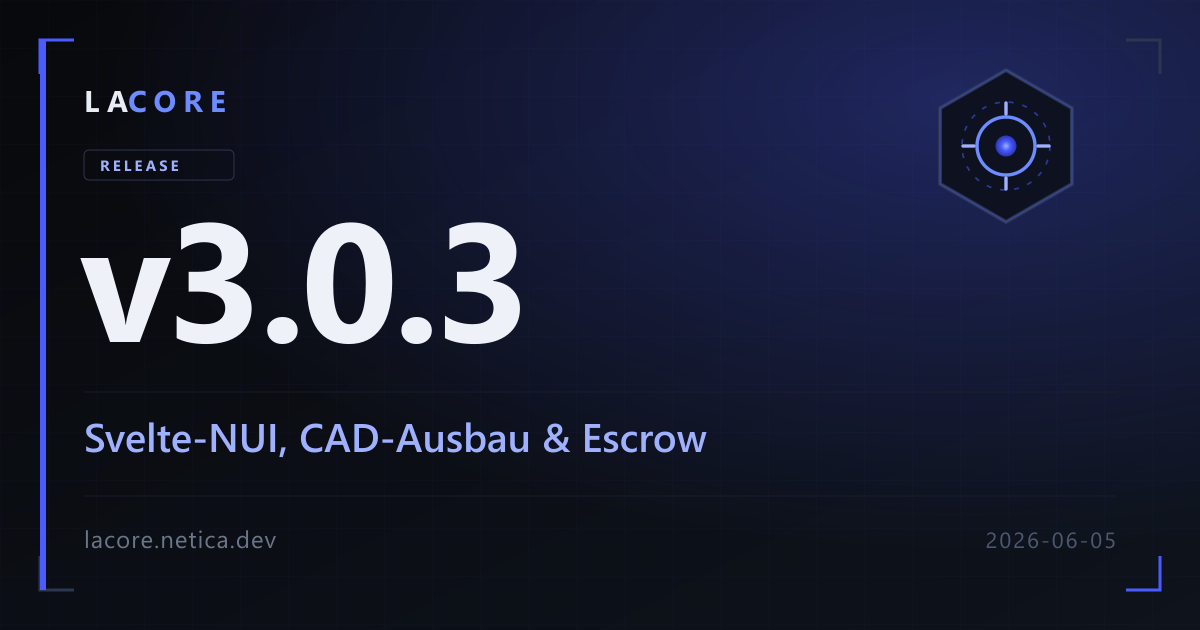
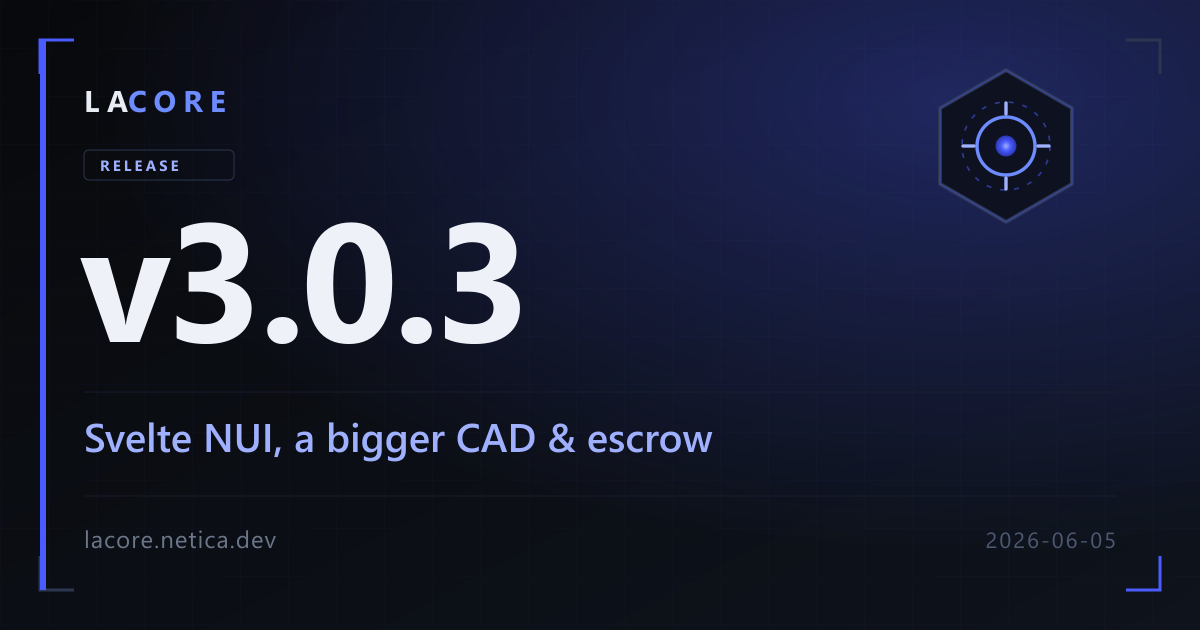
docs: English changelog for v3.4.9.6 and the two legacy German titles

Changed region(s): [[0.1542, 0.6635, 0.6167, 0.754]]

diff --git a/changelog.md b/changelog.md
@@ -3,32 +3,30 @@
 Alle nennenswerten Änderungen an diesem Projekt werden hier dokumentiert.
 Format angelehnt an [Keep a Changelog](https://keepachangelog.com/de/1.0.0/).
 
-## [3.4.9.6] – 2026-08-20 — Das 90er-CAD gibt es jetzt einzeln
+## [3.4.9.6] – 2026-08-20 — The 90s CAD ships on its own
 
 ### Added
 
-#### Der 9100-T als eigenes Produkt
+#### The 9100-T as a standalone product
 
-Das 9100-T Mobile Data Terminal — das 90er-Jahre-CRT-Terminal mit fotorealistischem Gehäuse,
-klickbaren Tasten und Tastatur-Klacken — lässt sich ab sofort als eigenständige Resource
-ausliefern: `node Products/build-90s.mjs` baut `Products/lacore-90s-cad` (plus ZIP) aus dem Core,
-ohne den Core anzufassen.
+The 9100-T Mobile Data Terminal — the 1990s CRT terminal with the photo-real chassis, the clickable
+keys and the keyboard clack — can now be shipped as a resource of its own. `node Products/build-90s.mjs`
+assembles `Products/lacore-90s-cad` (and a zip) out of the core without touching the core.
 
-Mitgeliefert wird genau ein Terminal und das CAD-Backend, das es bedient: laufende Einsätze,
-Unit-Status, Self-Assign, Dispositionen, Personen- und Fahrzeugabfragen, Charges, Citations,
-Haftbefehle und BOLOs. Alles andere bleibt draußen — das LAPD PremierOne MDT, LASD PCMS, das
-Agency MDT, das EMS/Fire CAD, das Pennsylvania CAD, die Dispatch-Konsole und sämtliche
-Nicht-CAD-Module.
+What ships is one terminal and the CAD backend behind it: active calls, unit status, self-assign,
+dispositions, person and vehicle lookups, charges, citations, warrants and BOLOs. Everything else
+stays out — the LAPD PremierOne MDT, the LASD PCMS, the Agency MDT, the EMS/Fire CAD, the
+Pennsylvania CAD, the dispatch console and every non-CAD module.
 
-Anders als beim MDT-Produkt wird dafür auch die **NUI neu gebaut**, nicht bloß kopiert: Der Core
-bündelt alle Terminals in eine einzige JavaScript-Datei, also entsteht für dieses Produkt ein
-eigener Einstiegspunkt, der nur den 9100-T mountet. Die anderen Terminals liegen damit auch nicht
-mehr im ausgelieferten Bundle (350 kB statt 1,2 MB).
+Unlike the MDT product, this one **rebuilds the NUI** instead of copying it. The core bundles every
+terminal into a single JavaScript file, so copying `nui/dist` would have shipped all of them; the
+build generates its own entry point that mounts the 9100-T alone. The other terminals are therefore
+not in the shipped bundle either — 350 kB instead of 1.2 MB.
 
-Damit im Produkt nichts anderes aufgehen kann, öffnet `/mdt` dort immer den 9100-T — unabhängig
-vom Department — und `/dispatch` meldet, dass es keine Konsole gibt. Beide Befehle werden in einer
-produkteigenen Datei neu registriert, statt den Core-Code umzuschreiben: `modules/mdt/mdt-nui-cl.lua`
-bleibt Byte für Byte identisch mit dem Core und übersteht damit jedes Core-Update.
+So that nothing else can open inside the product, `/mdt` there always opens the 9100-T regardless of
+department, and `/dispatch` reports that there is no console. Both commands are re-registered in a
+product-only file rather than edited out of the core: `modules/mdt/mdt-nui-cl.lua` stays byte for byte
+identical to the core, and survives every core update.
 
 ## [3.4.9.5] – 2026-08-19 — The phone and `/hangup` agree with each other
 
@@ -5580,7 +5578,7 @@ fließt in eine durchsuchbare DB, ein In-Game-Admin-Panel und optional Discord.
 
 ---
 
-## [3.0.5d] – 2026-06-11 — Vollständige Lokalisierung, Config-Ausbau & Härtung
+## [3.0.5d] – 2026-06-11 — Full localisation, a bigger config layer & hardening
 
 Großer Feinschliff-Release: der **komplette Core ist jetzt durchgängig
 lokalisiert** (EN-Quelle + DE/RU), praktisch alles Spieler-/Profil-/Rollen-
@@ -6071,7 +6069,7 @@ Nachbesserungen rund um die Eingabe-/Maus-Steuerung im MDT und kleinere Korrektu
   California umgestellt (CA / NV / AZ / OR). (Der GTA-Textur-Name `driver_san_andreas`
   und das interne Blip-Default-Konzept „San Andreas" bleiben — sind Engine-Begriffe.)
 
-## [3.0.3] – 2026-06-05 — Svelte-NUI, CAD-Ausbau & Escrow
+## [3.0.3] – 2026-06-05 — Svelte NUI, a bigger CAD & escrow
 
 Komplette Migration der NUI auf **Svelte 5 + Vite**, großer Funktionsausbau von
 MDT / Dispatch / Query sowie ein lokales Obfuskations-/Escrow-Buildsystem.
